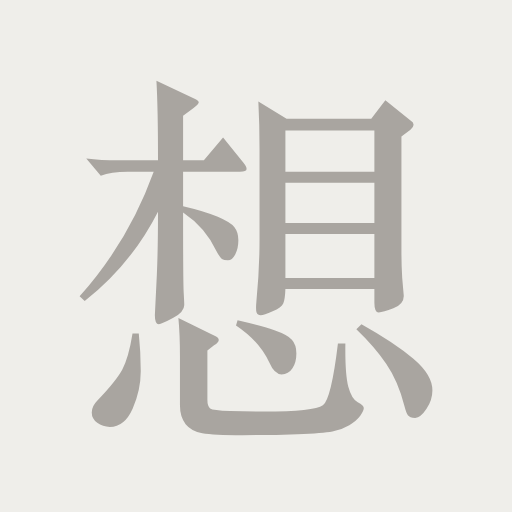
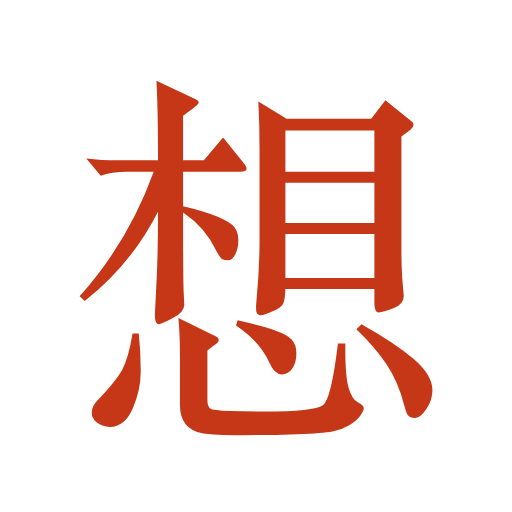
tingli 6.24.3: неактивная вкладка СМ — белый вариант значка 想

Changed region(s): [[0.1562, 0.1562, 0.8438, 0.875], [0.1562, 0.6562, 0.2812, 0.8438]]

diff --git a/tingli/index.html b/tingli/index.html
@@ -1214,7 +1214,7 @@ body.in-unit img, body.in-unit audio, body.in-unit video { max-width:100% !impor
   <button class="tab" id="tab-mine" onclick="goTab('mine')" title="语法"><span class="ic"><img class="ic-img ic-img-on" src="tab-fa.png?v=5.59.0" alt=""><img class="ic-img ic-img-off" src="tab-fa-off.png?v=5.59.0" alt=""></span><span class="tab-label">语法<span class="tab-ru">Грамматика с Ли лаоши</span></span></button>
   <button class="tab" id="tab-idv" onclick="goTab('idv')" title="口语"><span class="ic"><img class="ic-img ic-img-on" src="tab-yu.png?v=5.59.0" alt=""><img class="ic-img ic-img-off" src="tab-yu-off.png?v=5.59.0" alt=""></span><span class="tab-label">口语<span class="tab-ru">Разговорный язык с Любой</span></span></button>
   <button class="tab" id="tab-team" onclick="goTab('team')" title="团队"><span class="ic"><img class="ic-img ic-img-on" src="tab-tuan.png?v=5.59.0" alt=""><img class="ic-img ic-img-off" src="tab-tuan-off.png?v=5.59.0" alt=""></span><span class="tab-label">团队<span class="tab-ru">Групповые уроки с Любой</span></span></button>
-  <button class="tab" id="tab-sm" onclick="goTab('sm')" title="СМ"><span class="ic"><img class="ic-img ic-img-on" src="tab-sm.png?v=6.24.2" alt=""><img class="ic-img ic-img-off" src="tab-sm-off.png?v=6.24.2" alt=""></span><span class="tab-label">СМ<span class="tab-ru">Сдвиг мышления · Макк</span></span></button>
+  <button class="tab" id="tab-sm" onclick="goTab('sm')" title="СМ"><span class="ic"><img class="ic-img ic-img-on" src="tab-sm.png?v=6.24.3" alt=""><img class="ic-img ic-img-off" src="tab-sm-off.png?v=6.24.3" alt=""></span><span class="tab-label">СМ<span class="tab-ru">Сдвиг мышления · Макк</span></span></button>
   <button class="tab" id="tab-yin" onclick="goTab('yin')" title="声音"><span class="ic"><img class="ic-img ic-img-on" src="tab-yin.png?v=5.59.0" alt=""><img class="ic-img ic-img-off" src="tab-yin-off.png?v=5.59.0" alt=""></span><span class="tab-label">声音<span class="tab-ru">Аудио-уроки</span></span></button>
   <button class="tab" id="tab-biz" onclick="goTab('biz')" title="商务"><span class="ic"><img class="ic-img ic-img-on" src="tab-biz.png?v=5.59.0" alt=""><img class="ic-img ic-img-off" src="tab-biz-off.png?v=5.59.0" alt=""></span><span class="tab-label">商务<span class="tab-ru">Бизнес. Самоучеба</span></span></button>
   <button class="tab active" id="tab-lessons" onclick="goTab('lessons')" title="听力"><span class="ic"><img class="ic-img ic-img-on" src="tab-ting.png?v=5.59.0" alt=""><img class="ic-img ic-img-off" src="tab-ting-off.png?v=5.59.0" alt=""></span><span class="tab-label">听力<span class="tab-ru">Аудирование. Самоучеба</span></span></button>
@@ -34713,7 +34713,7 @@ const favKey = (u, part, ti) => u.unit + ':' + part.id + ':' + ti;
 const isFav = (u, part, ti) => loadFavs().includes(favKey(u, part, ti));
 const favKeyPart = (u, part) => u.unit + ':' + part.id;
 const isFavPart = (u, part) => loadFavs().includes(favKeyPart(u, part));
-const APP_VER = '6.24.2';
+const APP_VER = '6.24.3';
 /* 6.10.0: бета-режим для показа курса постороннему — ?beta=1
    всё открыто, свой ключ прогресса, в статистику владельца не пишет */
 const RIK_BETA = (function () {

diff --git a/tingli/sw.js b/tingli/sw.js
@@ -1,5 +1,5 @@
 /* Tingli 5.95.2: pinned offline shell, durable media, resumable verified downloads. */
-const VERSION = '6.24.2';
+const VERSION = '6.24.3';
 const CACHE = 'tingli-shell-' + VERSION;
 const MEDIA_CACHE = 'tingli-media-v1';
 const MANIFEST = './offline-manifest.5.95.2.json';
